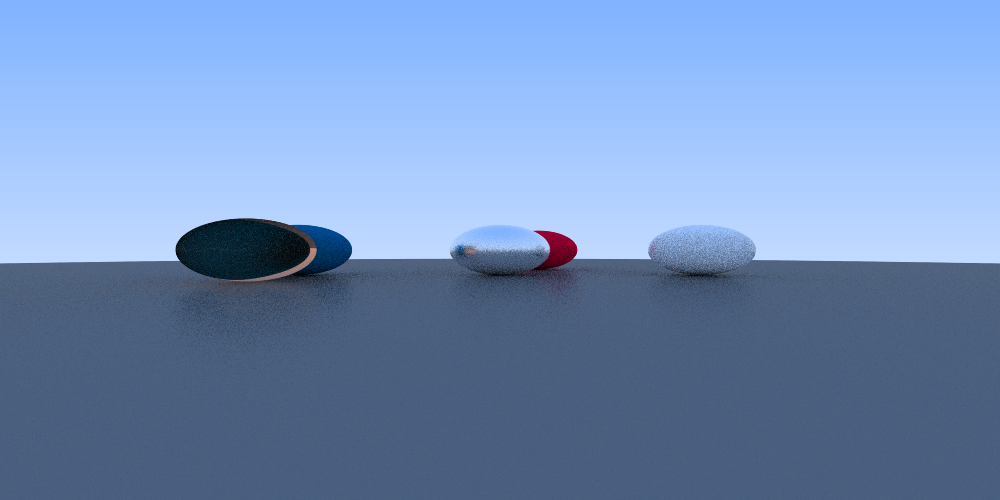
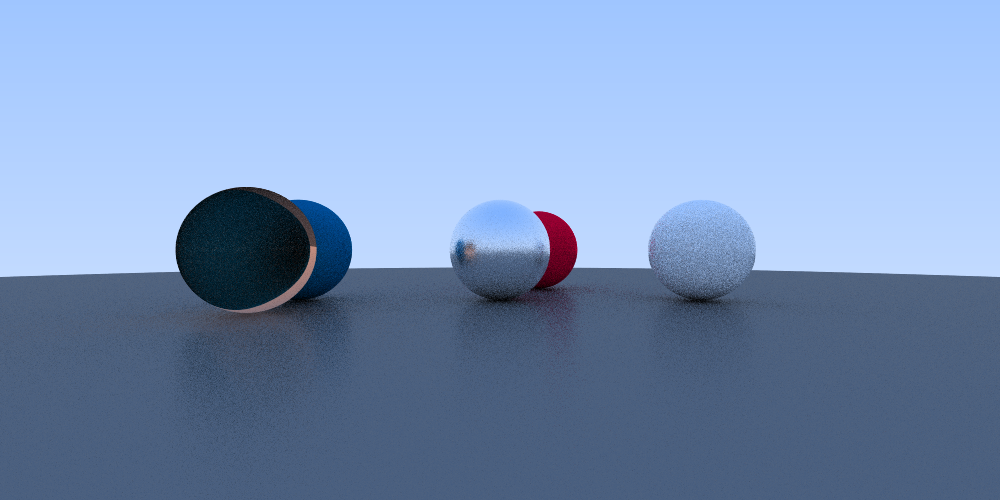
Blurp some last stuff

Changed region(s): [[0.0, 0.36, 1.0, 0.78], [0.0, 0.0, 1.0, 0.12]]

diff --git a/code/raytracer.cc b/code/raytracer.cc
@@ -25,15 +25,6 @@ Raytracer::Raytracer(const unsigned& w, const unsigned& h, std::vector<vec3>& fr
     std::mt19937 generator (leet++);
     std::uniform_real_distribution<float> dis(0.0f, 1.0f);
 
-    // Allocate size for ray buffer
-    num_rays = w * h * rpp;
-    // size_t size = (sizeof(Ray) * num_rays);
-    // rayBuffer = (Ray*) malloc(size);
-    // if (rayBuffer == NULL) 
-    // {
-    //     fprintf(stderr, "Failed to allocate Ray buffer!");
-    // }
-
     // Pre calculate ray distribution
     for (int i = 0; i < this->rpp; i++) 
     {
@@ -41,6 +32,8 @@ Raytracer::Raytracer(const unsigned& w, const unsigned& h, std::vector<vec3>& fr
         distY.push_back(dis(generator));
     }
 
+    num_rays = w * h * rpp;
+    aspectRatio = float(h) / float(w);
     fracWidth = 1.0f / this->width;
     fracHeight = 1.0f / this->height;
     sampleFraction = 1.0f / this->rpp;
@@ -68,30 +61,33 @@ void* th_raytrace(void *arg)
     const float& fraction_width = context->fracWidth;
     const float& fraction_height = context->fracHeight;
     const float& sample_fraction = context->sampleFraction;
+    const float& aspect_ratio = context->aspectRatio;
 
     std::vector<float>* ray_dist_x = &context->distX;
     std::vector<float>* ray_dist_y = &context->distY;
 
-    Ray* ray_buffer = &context->rayBuffer[thread->start];
     vec3* pixel = &(&context->frameBuffer)->at(thread->start);
-    Ray test;
+    Ray ray;
+
+    float u;
+    float v;
 
     for (int j = thread->start; j < thread->end; j++)
     {
         for (int i = 0; i < rpp; i++)
         {
-            float u = ((float(j % width + ray_dist_x->at(i)) * fraction_width) * 2.0f) - 1.0f;
-            float v = ((float(j / width + ray_dist_y->at(i)) * fraction_height) * 2.0f) - 1.0f;
+            u = ((float(j % width + ray_dist_x->at(i)) * fraction_width) * 2.0f) - 1.0f;
+            v = ((float(j / width + ray_dist_y->at(i)) * fraction_height) * 2.0f) - 1.0f;
 
-            test.origin = get_position(mat_view);
-            test.direction = transform({u, v, -1.0f}, mat_frustrum);
-            *pixel += context->TracePath(test, ray_bounces);
+            ray.origin = get_position(mat_view);
+            ray.direction = transform({u, v * aspect_ratio, -1.0f}, mat_frustrum);
+            *pixel += context->TracePath(ray, ray_bounces);
         }
         // average color over pixel
         *pixel *= sample_fraction;
         // increment pointer
         pixel++;
-    }    
+    }  
 
     pthread_exit(EXIT_SUCCESS);
 };
@@ -179,20 +175,20 @@ Raytracer::Raycast(const Ray& ray, vec3& hitPoint, vec3& hitNormal, float& dista
     HitResult closestHit;
     HitResult hit;
 
-    Object* obj;
-    Transform* trans;
+    Object* obj = bm._objects->data;
+    Transform* trans = bm._transforms->data;
 
     for (int i = 0; i < bm._objects->n; i++)
     {
-        obj = (bm._objects->data + i); // only works cause objects are in order
-        trans = (bm._transforms->data + i);
-
         if (IntersectSphere(hit, ray, closestHit.t, *trans))
         {
             closestHit = hit;
             closestHit.object = *obj;
             isHit = true;
         }
+
+        obj++;  // only works cause objects are in order
+        trans++;
     }
 
     hitPoint = closestHit.p;

diff --git a/code/raytracer.h b/code/raytracer.h
@@ -15,7 +15,6 @@ public:
     Raytracer(const unsigned& w, const unsigned& h, std::vector<vec3>& frameBuffer, const unsigned& rpp, const unsigned& bounces, const BufferManager& bm);
     ~Raytracer()
     { 
-         free(rayBuffer);
     }
 
     // start raytracing!
@@ -66,11 +65,11 @@ public:
 
     size_t num_rays;
     BufferManager bm;
-    Ray* rayBuffer;
 
     std::vector<float> distX, distY;
     float fracWidth, fracHeight;
     float sampleFraction;
+    float aspectRatio;
 };
 
 inline void Raytracer::SetViewMatrix(const mat4& val)
